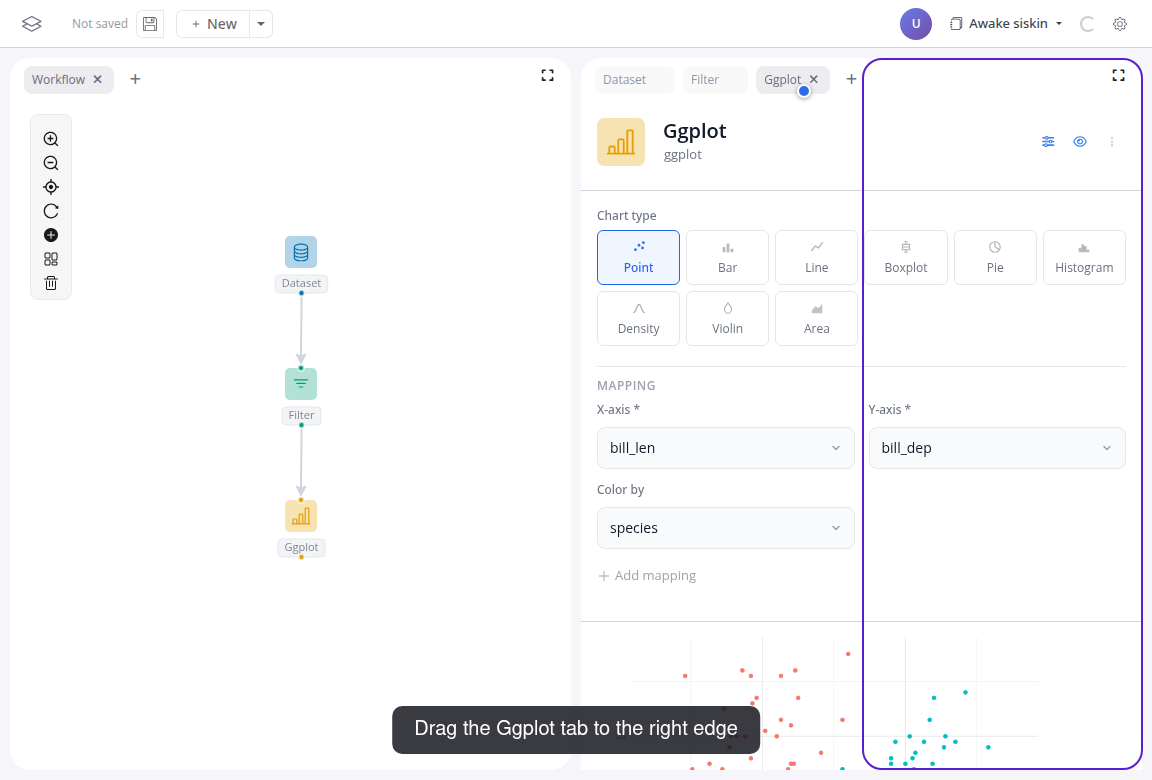
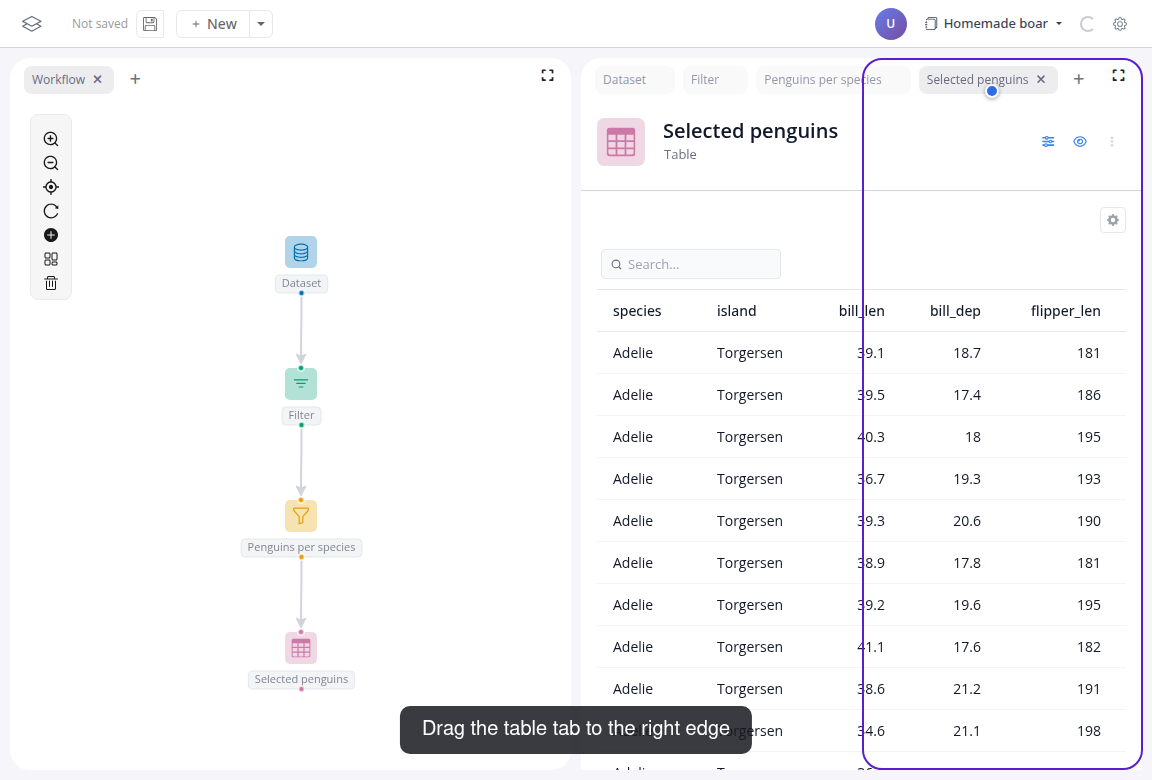
Rework tutorial 2 around blockr.viz: interactive dashboard
The dashboard lesson now teaches interactivity, not just layout: Chart and
Table blocks, drilldown (click a bar, the table follows), then the layout
moves. 44s video, drill verified headless via the ECharts instance.

diff --git a/learn/02-build-a-dashboard.md b/learn/02-build-a-dashboard.md
@@ -1,8 +1,8 @@
 # Build a dashboard
 
-In this tutorial you turn the workflow from the previous tutorial into a dashboard: end users see the filter controls and the plot, nothing else.
+In this tutorial you turn the workflow from the previous tutorial into an interactive dashboard: a chart your users can click, and a table that follows the click.
 
-![The finished dashboard: filter controls on the left, plot on the right](02-img-result.png)
+![The dashboard: clicking the Adelie bar filters the table to Adelie penguins](02-img-result.png)
 
 ::: info
 This builds on the workflow from [Build your first app](01-build-your-first-app). Complete that tutorial first.
@@ -14,16 +14,16 @@ Watch the flow, then follow the steps below:
 
 ## Do it yourself
 
-1. Drag the Ggplot tab to the right edge of the window. A colored outline shows where the panel will land; release to give the plot its own panel:
+1. Swap the plot for interactive blocks: remove the ggplot block, then add a "Chart" block after the filter and a "Table" block after the chart (add and connect as in the first tutorial). Group the chart by "species" and set its drill column to "species"; the gear in the chart's corner opens its settings.
+2. Drag the table tab to the right edge of the window. A colored outline shows where the panel will land; release to give the table its own panel:
 
-   ![Dragging the Ggplot tab, drop target outlined on the right](02-img-drag.png)
+   ![Dragging the table tab, drop target outlined on the right](02-img-drag.png)
 
    The same drag can group panels: drop a tab next to another tab and they share a tab group.
 
-2. Close what your users don't need: click the "x" on the Workflow tab and on the Dataset tab. The "+" next to any tab bar brings panels back.
-3. Resize the panels by dragging the divider between them.
-4. Trim each block to its dashboard role, with the two toggles in the block header: the sliders icon shows or hides the controls, the eye icon shows or hides the preview. Hide the filter's preview and the plot's controls.
-5. The dashboard stays live: remove a species from the filter and the plot updates.
+3. Close what your users don't need: the "x" on the Workflow, Dataset and Filter tabs. The "+" next to any tab bar brings panels back.
+4. Hide the chart's preview table with the eye toggle in its header. Every block panel has the two toggles: sliders for the controls, eye for the preview.
+5. Click a bar. The chart filters everything downstream, so the table now shows exactly those penguins; the label under the chart says which filter is active. Click another bar, or "Reset", and the table follows.
 
 The layout and the toggles are part of the board, so they are saved and restored with it: what you arrange is what people using your board get.
 